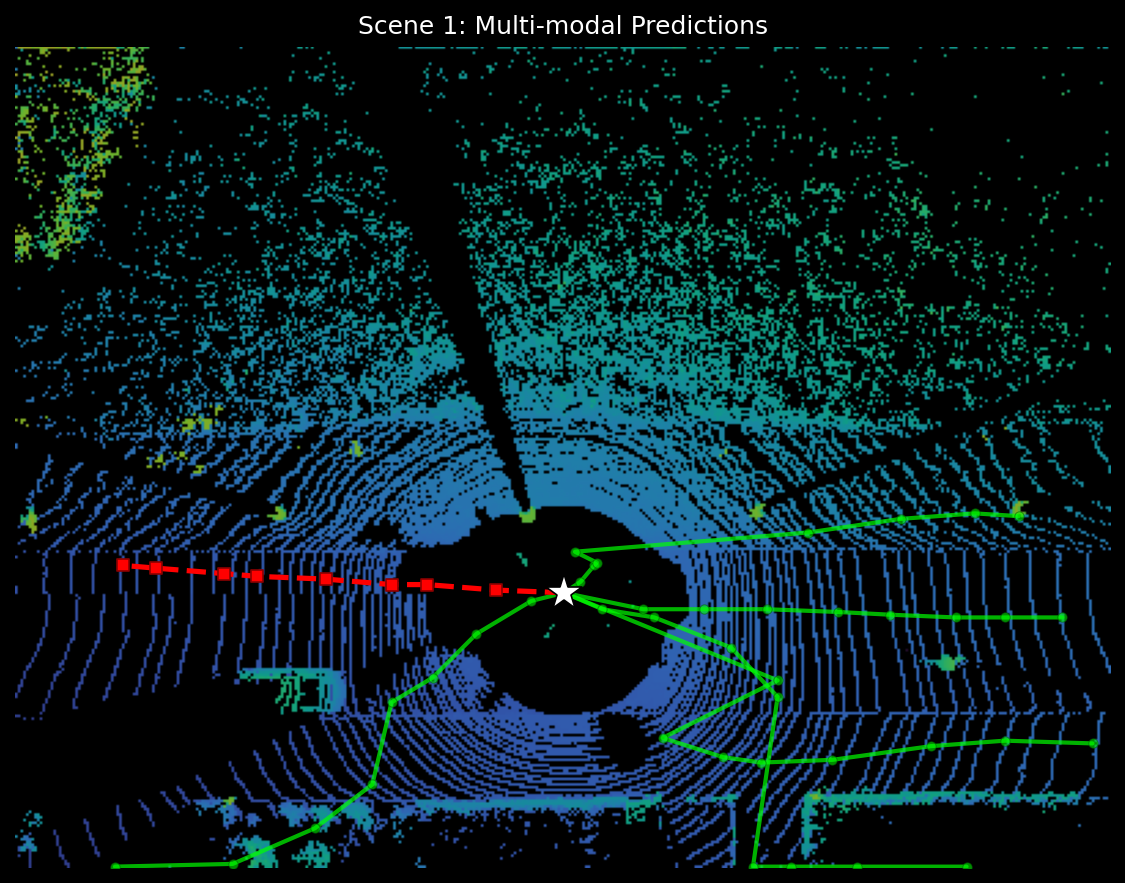
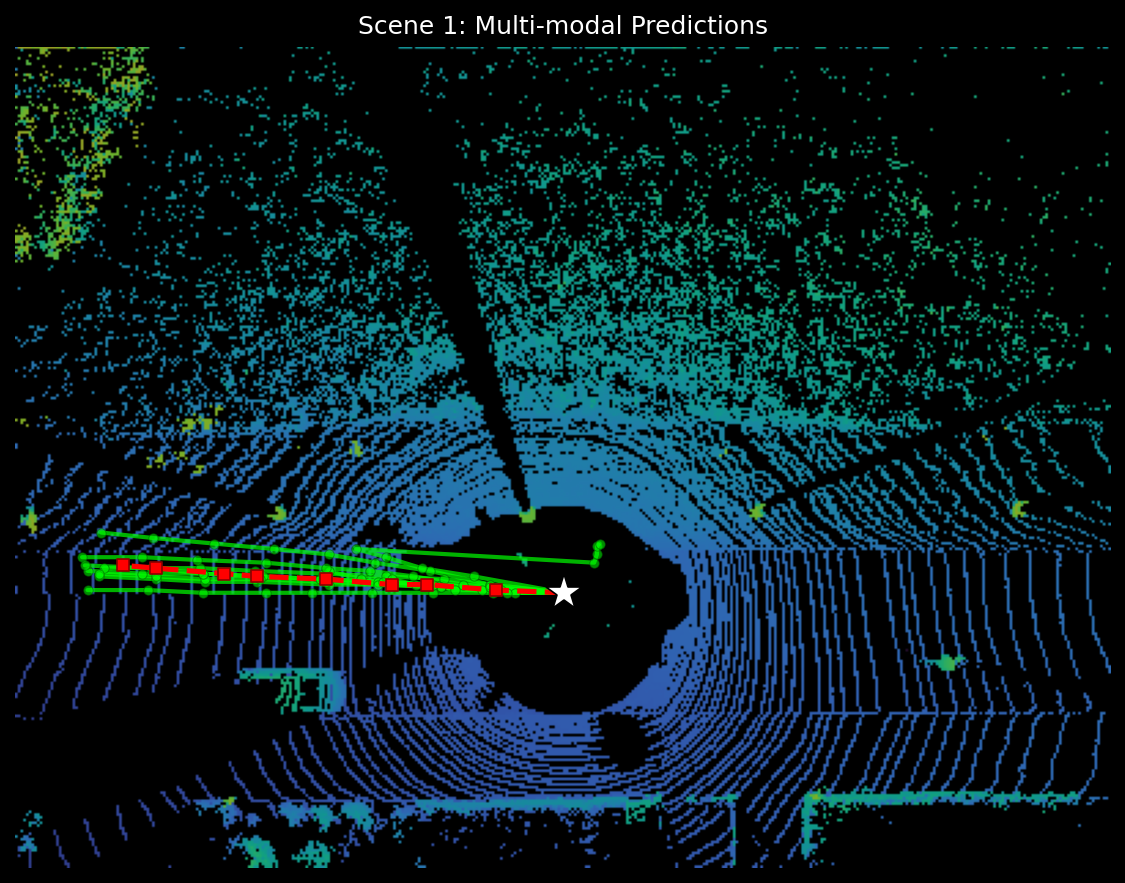
Add dropout/augmentation to encoder, update visualizations with retrained model
Encoder (models/encoder.py):
- Add Dropout2d after c3, c4, c5 encoder layers and shared backbone
- Add Dropout before conditioning FC layer
- Simplify seg_head (remove intermediate conv to reduce capacity)
- Default dropout=0.3, fixes severe overfitting (val_loss diverging at epoch 2)

Training (train_encoder_full.py):
- Add random horizontal flip augmentation for training samples
- Lower default LR from 1e-3 to 3e-4
- Switch to AdamW with weight_decay=1e-2 (was Adam with 1e-4)
- Use ReduceLROnPlateau scheduler (was CosineAnnealing)
- Validate on sequences 08, 09, 10 (was only 08)

Visualizations regenerated with retrained checkpoints (10 samples/scene):
- Encoder: epoch 41, val_loss=0.077
- Diffusion: epoch 119, minADE=1.06m, hit_rate=78.8%

diff --git a/models/encoder.py b/models/encoder.py
@@ -62,30 +62,33 @@ class MultimodalEncoder(nn.Module):
         - road_seg: [B, 1, 37, 50] road segmentation prediction
     """
     
-    def __init__(self, input_channels=5, conditioning_dim=512):
+    def __init__(self, input_channels=5, conditioning_dim=512, dropout=0.3):
         super().__init__()
-        
+
         self.input_channels = input_channels
         self.conditioning_dim = conditioning_dim
-        
+
         # ========== ENCODER PATH (Contracting) ==========
         # NOTE: Using CBRBlock (Conv+BN+ReLU) for all encoder blocks
         # This fixes gradient flow and feature diversity issues found in testing
-        
+
         # c1: [B, C_in, 300, 400] → [B, 32, 150, 200]
         self.c1 = CBRBlock(input_channels, 32, kernel_size=3, stride=2, padding=1)
-        
+
         # c2: [B, 32, 150, 200] → [B, 64, 75, 100]
         self.c2 = CBRBlock(32, 64, kernel_size=3, stride=2, padding=1)
-        
+
         # c3: [B, 64, 75, 100] → [B, 128, 38, 50]
         self.c3 = CBRBlock(64, 128, kernel_size=3, stride=2, padding=1)
-        
+        self.drop3 = nn.Dropout2d(dropout)
+
         # c4: [B, 128, 38, 50] → [B, 256, 19, 25]
         self.c4 = CBRBlock(128, 256, kernel_size=3, stride=2, padding=1)
-        
+        self.drop4 = nn.Dropout2d(dropout)
+
         # c5: [B, 256, 19, 25] → [B, 512, 10, 13]
         self.c5 = CBRBlock(256, 512, kernel_size=3, stride=2, padding=1)
+        self.drop5 = nn.Dropout2d(dropout * 2)
         
         # ========== DECODER PATH (Expanding) ==========
         
@@ -105,27 +108,28 @@ class MultimodalEncoder(nn.Module):
         # BCEWithLogitsLoss handles sigmoid internally for the seg head,
         # and the conditioning head uses its own ReLU activation)
         self.shared_backbone = nn.Sequential(
-            # CB Blocks (multiple)
+            # CB Blocks (multiple) with dropout
             CBBlock(64, 64, kernel_size=3, stride=1, padding=1),
+            nn.Dropout2d(dropout),
             CBBlock(64, 64, kernel_size=3, stride=1, padding=1),
+            nn.Dropout2d(dropout),
             # Conv + BN (activation applied per-head, not here)
             nn.Conv2d(64, 64, kernel_size=3, padding=1, bias=False),
             nn.BatchNorm2d(64),
+            nn.Dropout2d(dropout),
         )
         
         # Head A: Road Segmentation (Auxiliary Task)
         # From shared backbone → Road Seg Mask (RAW LOGITS for BCEWithLogitsLoss)
+        # LIGHTWEIGHT with dropout to prevent overfitting
         self.seg_head = nn.Sequential(
             # Upsample to [B, 32, 38, 50]
             nn.ConvTranspose2d(64, 32, kernel_size=4, stride=2, padding=1, bias=False),
             nn.BatchNorm2d(32),
             nn.ReLU(inplace=True),
-            # Conv to adjust size then final output
-            nn.Conv2d(32, 16, kernel_size=3, padding=1, bias=False),
-            nn.BatchNorm2d(16),
-            nn.ReLU(inplace=True),
-            # Final: [B, 1, 37, 50] - RAW LOGITS (no sigmoid, BCEWithLogitsLoss handles it)
-            nn.Conv2d(16, 1, kernel_size=3, padding=1)
+            nn.Dropout2d(dropout),
+            # Direct to output (removed intermediate conv to reduce capacity)
+            nn.Conv2d(32, 1, kernel_size=3, padding=1)
         )
         
         # Head B: Conditioning Vector (Main Task)
@@ -134,6 +138,7 @@ class MultimodalEncoder(nn.Module):
         self.cond_bn = nn.BatchNorm2d(64)
         self.cond_relu = nn.ReLU(inplace=True)
         self.cond_pool = nn.AdaptiveAvgPool2d((1, 8))  # [B, 64, 1, 8] as per paper
+        self.cond_drop = nn.Dropout(dropout * 2)
         self.cond_fc = nn.Linear(64 * 8, conditioning_dim)  # [B, 512] → [B, 512]
         
     def forward(self, x):
@@ -156,9 +161,9 @@ class MultimodalEncoder(nn.Module):
         # ========== ENCODER ==========
         c1_out = self.c1(x)      # [B, 32, 150, 200]
         c2_out = self.c2(c1_out)  # [B, 64, 75, 100]
-        c3_out = self.c3(c2_out)  # [B, 128, 38, 50]
-        c4_out = self.c4(c3_out)  # [B, 256, 19, 25]
-        c5_out = self.c5(c4_out)  # [B, 512, 10, 13]
+        c3_out = self.drop3(self.c3(c2_out))  # [B, 128, 38, 50]
+        c4_out = self.drop4(self.c4(c3_out))  # [B, 256, 19, 25]
+        c5_out = self.drop5(self.c5(c4_out))  # [B, 512, 10, 13]
         
         # ========== DECODER ==========
         
@@ -199,6 +204,7 @@ class MultimodalEncoder(nn.Module):
         # Pool to [B, 64, 1, 8] as per paper: obs_cond (before reshape) [8, 64, 8]
         cond_features = self.cond_pool(cond_features)  # [B, 64, 1, 8]
         cond_flat = cond_features.view(B, -1)  # [B, 64*8] = [B, 512]
+        cond_flat = self.cond_drop(cond_flat)
         conditioning = self.cond_fc(cond_flat)  # [B, 512]
         
         return conditioning, road_seg

diff --git a/train_encoder_full.py b/train_encoder_full.py
@@ -198,7 +198,14 @@ class KITTIFullDataset(Dataset):
             points = load_kitti_lidar(sample['lidar_path'])
             bev = self.rasterizer.rasterize_lidar(points)
 
-        return torch.from_numpy(bev), torch.from_numpy(sample['road_mask'])
+        road_mask = sample['road_mask']
+
+        # Data augmentation (training only): random horizontal flip
+        if self.split == 'train' and np.random.random() < 0.5:
+            bev = bev[:, :, ::-1].copy()          # flip BEV laterally
+            road_mask = road_mask[:, :, ::-1].copy()  # flip mask to match
+
+        return torch.from_numpy(bev), torch.from_numpy(road_mask)
 
 
 def train_epoch(model, dataloader, optimizer, scaler, device, epoch, max_grad_norm=1.0):
@@ -254,7 +261,7 @@ def main():
     parser = argparse.ArgumentParser()
     parser.add_argument('--epochs', type=int, default=50)
     parser.add_argument('--batch_size', type=int, default=128)
-    parser.add_argument('--lr', type=float, default=1e-3)
+    parser.add_argument('--lr', type=float, default=3e-4)
     parser.add_argument('--workers', type=int, default=4)
     parser.add_argument('--cache_dir', type=str, default='data/kitti/bev_cache')
     args = parser.parse_args()
@@ -269,18 +276,25 @@ def main():
     model = build_encoder(input_channels=3, conditioning_dim=512).to(device)
     print(f"Model: {sum(p.numel() for p in model.parameters()):,} params")
 
-    optimizer = optim.Adam(model.parameters(), lr=args.lr, weight_decay=1e-4)
-    scheduler = optim.lr_scheduler.CosineAnnealingLR(optimizer, T_max=args.epochs)
+    optimizer = optim.AdamW(model.parameters(), lr=args.lr, weight_decay=1e-2)
+    # Use ReduceLROnPlateau to lower LR when validation loss plateaus
+    scheduler = optim.lr_scheduler.ReduceLROnPlateau(
+        optimizer, mode='min', factor=0.5, patience=3, verbose=True
+    )
     scaler = GradScaler('cuda')
 
     # Data
     print("\nLoading datasets...")
+    # Fair comparison: same train as before, but validate on ALL held-out sequences
+    train_sequences = ['00', '02', '05', '07']  # Keep as is for fair comparison
+    val_sequences = ['08', '09', '10']          # Use ALL three for validation
+    
     train_dataset = KITTIFullDataset(
-        sequences=['00', '02', '05', '07'], split='train',
+        sequences=train_sequences, split='train',
         cache_dir=args.cache_dir
     )
     val_dataset = KITTIFullDataset(
-        sequences=['08'], split='all',
+        sequences=val_sequences, split='all',
         cache_dir=args.cache_dir
     )
 
@@ -307,7 +321,7 @@ def main():
 
         train_loss = train_epoch(model, train_loader, optimizer, scaler, device, epoch)
         val_loss = validate(model, val_loader, device)
-        scheduler.step()
+        scheduler.step(val_loss)
         epoch_time = time.time() - t0
 
         print(f"Train Loss: {train_loss:.4f} | Val Loss: {val_loss:.4f} ({epoch_time:.1f}s)")
